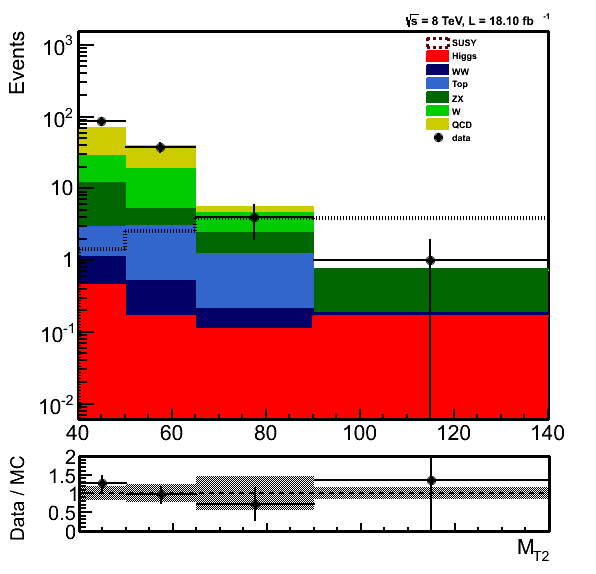
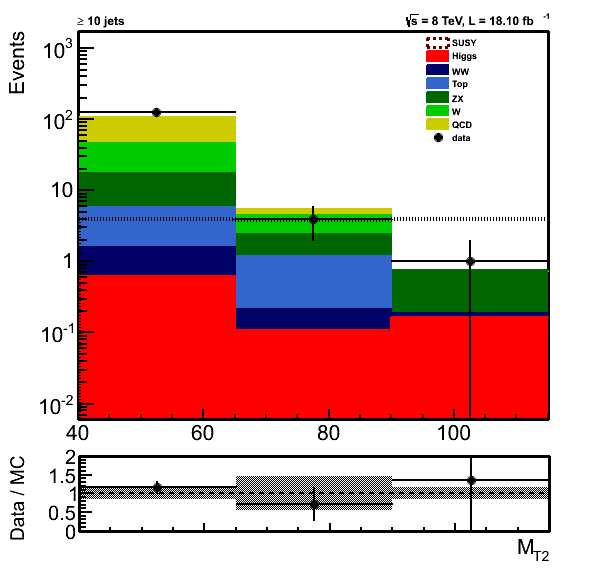
Rebinning of SumMt and MT2

diff --git a/notes/SUS-14-022/trunk/SelectionTauTau.tex b/notes/SUS-14-022/trunk/SelectionTauTau.tex
@@ -40,9 +40,11 @@ to be able to combine the statistics at the end.
 Two bins are defined as:
 \begin{itemize}
 \item {\bf\binone}: \mttwo $>$ 90 \GeV;
-\item {\bf\bintwo}: \mttwo $<$ 90 \GeV and \SumMT $>$ 250 \GeV; b-tagged jets are vetoed.{\FIXME bvetdo}
+\item {\bf\bintwo}: \mttwo $<$ 90 \GeV and \SumMT $>$ 250 \GeV; b-tagged jets are vetoed.
 \end{itemize}
 Vetoing the b-tagged jets in the second bin is useful against the backgrounds containting a top quark, especially \ttbar events. 
+To tag the b-jets, the medium working point of combined secondary vertex algorithm is used \cite{Chatrchyan:2012jua}. The b-jets have
+\PT $>$ 20 \GeV and $|\eta| < $ 2.4.
 
 The event yields can be found in table~\ref{tbl:cutflowtable}. The yields for three SUSY signal points, 
 corresponding to a low mass difference $(m_{\chione}=180\GeV,~m_{\PSGczDo}=60\GeV)$, 
@@ -51,9 +53,9 @@ a moderate mass difference $(m_{\chione}=240\GeV,~m_{\PSGczDo}=40\GeV)$ and a hi
 \begin{table}[!Hhtb]
 \begin{center}
 \begin{small}
-\begin{tabular}{lccccccccccc}
+\begin{tabular}{lcccccccccc}
 \hline\hline
-  &SUSY(180,60)&(240,40)&(380,1)&Higgs&QCD&WW&W&DY&Top&Total Bkg&Data\\
+  &SUSY(180,60)&(240,40)&(380,1)&Higgs&QCD&WW&W&DY&Top&Total Bkg\\%&Data\\
 \hline\hline
 %\multirow{5}{*}{Pre-Selection}&2 $\tau_h$ Selection&41.97&30.96&11.28&87.67&22081.57&13.71&595.80&2133.23&115.33&25027.32$\pm$6971.15&19615\\
 %&$e$ and $\mu$ Veto&38.68&27.89&9.87&81.53&19272.05&11.21&543.42&1961.29&95.85&21965.34$\pm$6387.87&18526\\
@@ -62,14 +64,14 @@ a moderate mass difference $(m_{\chione}=240\GeV,~m_{\PSGczDo}=40\GeV)$ and a hi
 %&$M_{T2} > $ 40&9.50&11.66&5.60&0.89&135.29&1.11&31.93&13.17&5.26&187.65$\pm$135.47&131\\
 %\hline
 %\binone&$M_{T2} > $ 90&0.59&3.89&3.81&0.17&$<$135.29&0.02&$<$1.28&0.56&$<$0.47&0.75$\pm$0.08&1\\
-\binone &0.59&3.89&3.81&0.17&$<$135.29&0.02&$<$1.28&0.56&$<$0.47&0.75$\pm$0.08&1\\
+\binone &0.59&3.89&3.81&0.17& 0.0 &0.02&0.0&0.56&0.0 &0.75$\pm$0.08\\%&1\\
 \hline
 %\multirow{3}{*}{\bintwo}&b-jet veto&7.92 &9.33 &4.67 &0.75&135.20&0.96&29.13&11.15&0.78&177.98$\pm$135.36&115\\
 %&$M_{T2} < $ 90&7.42 &6.17 &1.51 &0.61&135.20&0.94&29.13&10.65&0.78&177.32$\pm$135.36&114\\
-\bintwo &2.17&3.36  &1.08&0.07&$<$135.20&0.15&0.43&0.81&0.53&1.99$\pm$0.87&2\\
+\bintwo &2.17&3.36  &1.08&0.07& 0.0 &0.15&0.43&0.81&0.53&1.99$\pm$0.87\\%&2\\
 \hline\hline
 \end{tabular}
-\caption{{\bf FIXME 135 remove data} MC driven yields for $\tauTau$ channel. The quoted uncertainties are only statistical. When the remaining events from MC are zero, the weight of the events is reported as the upper bound.}
+\caption{ MC driven yields for $\tauTau$ channel. The quoted uncertainties are only statistical. When the remaining events from MC are zero, the weight of the events is reported as the upper bound.}
 \label{tbl:cutflowtable}
 \end{small}
 \end{center}
@@ -86,6 +88,6 @@ find the distribution of QCD in opposite-sign region.
 \centering
 \includegraphics[angle=0,scale=0.35]{TauTauFigs/MT2_SSQCD_dataunblinding.png}
 \includegraphics[angle=0,scale=0.35]{TauTauFigs/SumMT_SSQCD_dataunblinding.png} \\
-\caption{{\bf FIXME variable bin size, discrepancy 1st bin right}The distributions of \mttwo (left) and \SumMT (right) after pre-selection. The b-jet veto cut is also applied on the right plot.}
+\caption{The distributions of \mttwo (left) and \SumMT (right) after pre-selection. The b-jet veto cut is also applied on the right plot.}
 \label{fig:comparison}
 \end{figure}

diff --git a/notes/SUS-14-022/trunk/SelectionLepTau.tex b/notes/SUS-14-022/trunk/SelectionLepTau.tex
@@ -1,7 +1,7 @@
 %\section{Selection Cuts for eleTau Channel}
 \section{\texorpdfstring{Selection cuts for \leptonTau channel}{Selection cuts for lepton-tau channel}}
 \label{sect:eleTauCuts}
-{\bf FIXME lepton isolation trigger, btag, mttwo $<$ 90, table, figures}
+{\bf FIXME lepton isolation trigger, table, figures}
 In the \leptonTau final states, namely e\Tau and $\mu\Tau$, 
 events are selected when one electron(muon) with \PT $>$ 25 (20) \GeV and $|\eta|$ $<$ 2.1 and at least 
 one oppositely charged \Tau with \PT $>$ 20 \GeV and $|\eta|$ $<$ 2.3 exist. %The $I_{\Tau}$ of the hadronic tau must be less than 0.8 \GeV.
@@ -38,15 +38,15 @@ the final exclusion. The bins for $e\Tau$ and $\mu\Tau$ channels are defined by 
 \begin{table}[!Hhtb]
 \begin{center}
 %\begin{tiny}
-\begin{tabular}{lccccccccc}
+\begin{tabular}{lcccccccc}
 \hline
 \hline
-  & SUSY(380,1) & QCD & W & ZX & Top & WW & Higgs & MC & Data \\
+  & SUSY(380,1) & QCD & W & ZX & Top & WW & Higgs & MC \\%& Data \\
 \hline
 \hline
-e\Tau & 2.14  & $<$?? & 1.29 & 0.38 & 0.02 & 0.05 & 0.06 & 1.79$\pm$0.63 & 3 \\
+e\Tau       & 2.14 & 0.0 & 1.29 & 0.38 & 0.02 & 0.05 & 0.06 & 1.79$\pm$0.63 \\%& 3 \\
 \hline
-$\mu\hadtau$& 2.09 & $<$16.78 & 0.79 & 0.28 & $<$0.61 & 0.34 & 0.05 & 1.46$\pm$.49 & 5 \\
+$\mu\hadtau$& 2.09 & 0.0 & 0.79 & 0.28 & 0.0  & 0.34 & 0.05 & 1.46$\pm$.49 \\%& 5 \\
 %QCD 70.87 +- 34.49
 %Top 1.15 +- 0.84
 \hline
@@ -77,6 +77,6 @@ distribution after applying the preselection and \mttwo cuts, respectively.
 \caption{\tauMT distribution for events with $\mttwo>$90\GeV in (left) $e\hadtau$ and (right) $\mu\hadtau$ channels.}
 \label{fig:taumtleptontau}
 \end{figure}
-%Opposite to the $\Tau\Tau$ channel, the events with $\mttwo<90 \GeV$ are not useful in $\ell\Tau$ channels because of the contamination of
-%the Wjets events. It was investigated if increasing the \pt of the objects can increase the sensitivity in this bin, but no improvement was seen.
+Opposite to the $\Tau\Tau$ channel, the events with $\mttwo<90 \GeV$ are not useful in $\ell\Tau$ channels because of the contamination of
+the Wjets events. It was investigated if increasing the \pt of the objects can increase the sensitivity in this bin, but no improvement was seen.
 

diff --git a/notes/AN-14-275/trunk/Statistics.tex b/notes/AN-14-275/trunk/Statistics.tex
@@ -26,10 +26,10 @@ As a summary of results, the data and background yields and systematic uncertain
 		& \tauTau\binone & \tauTau\bintwo & \eTau\binone & \muTau\binone \\
 \hline
 MC Driven &  0.75 $\pm$ 0.08 $\pm$ 0.19 & 1.99 $\pm$ 0.87 $\pm$ 0.49  & 0.23 $\pm$ 0.14 $\pm$ 0.05 & 0.45 $\pm$ 0.16  $\pm$ 0.11\\
-Fake      &     0.93 $\pm$ 0.31         &           -                 &     2.32 $\pm$ 0.56 $\pm$  0.95 & 1.03 $\pm$ 0.44 $\pm$ 0.44\\
-QCD       &     0.15 $\pm$ 0.26         &         0.82 $\pm$ 0.65     &           -              &            -       \\
+Fake      &     0.93 $\pm$ 0.31         &           -                 & 2.32 $\pm$ 0.56 $\pm$ 0.95 & 1.03 $\pm$ 0.44 $\pm$ 0.44\\
+QCD       &     0.15 $\pm$ 0.26         &         0.82 $\pm$ 0.65     &             -              &            -       \\
 \hline
-SM Total  & 1.83 $\pm$ 0.08 $\pm$ 0.45 & 2.81  $\pm$ 0.87 $\pm$0.81  & 2.55 $\pm$ 0.58 $\pm$ 0.95 & 1.48 $\pm$ 0.47  $\pm$ 0.45\\
+SM Total  & 1.83 $\pm$ 0.08 $\pm$ 0.45  & 2.81  $\pm$ 0.87 $\pm$0.81  & 2.55 $\pm$ 0.58 $\pm$ 0.95 & 1.48 $\pm$ 0.47  $\pm$ 0.45\\
 \hline
 \hline
 Observed   & 1     & 2     & 3   & 5 \\  

diff --git a/notes/SUS-14-022/trunk/Statistics.tex b/notes/SUS-14-022/trunk/Statistics.tex
@@ -18,10 +18,10 @@ As a summary of results, the data and background yields and systematic uncertain
 		& \tauTau\binone & \tauTau\bintwo & \eTau\binone & \muTau\binone \\
 \hline
 MC Driven& 0.75 $\pm$ 0.08 $\pm$ 0.19 & 1.99 $\pm$ 0.87 $\pm$ 0.49  & 0.2 $\pm$ 0.1 $\pm$ 0.05 & 0.45 $\pm$ 0.16  $\pm$ 0.11\\
-Fake    &     0.93 $\pm$ 0.31         &           -                 &     2.35 $\pm$ 1.15       &      0.61 $\pm$  0.42\\
+Fake     &     0.93 $\pm$ 0.31         &           -                 &     2.32 $\pm$ 0.56 $\pm$  0.95 & 1.03 $\pm$ 0.44 $\pm$ 0.44\\
 QCD     &     0.15 $\pm$ 0.26         &         0.82 $\pm$ 0.65     &           -              &            -       \\
 \hline
-SM Total  & 1.83 $\pm$ 0.08 $\pm$ 0.45 & 2.81  $\pm$ 0.87 $\pm$0.81  & 2.55 $\pm$ 0.1 $\pm$ 1.15 & 1.06 $\pm$ 0.16  $\pm$ 0.43\\
+SM Total  & 1.83 $\pm$ 0.08 $\pm$ 0.45 & 2.81  $\pm$ 0.87 $\pm$0.81  & 2.55 $\pm$ 0.58 $\pm$ 0.95 & 1.48 $\pm$ 0.47  $\pm$ 0.45\\
 \hline
 \hline
 Observed   & 1     & 2     & 3   & 5 \\  

diff --git a/notes/SUS-14-022/trunk/SUS-14-022.tex b/notes/SUS-14-022/trunk/SUS-14-022.tex
@@ -21,7 +21,7 @@
 %%%%%%%%%%%%%%%  Title page %%%%%%%%%%%%%%%%%%%%%%%%
 \cmsNoteHeader{SUS-14-022} % This is over-written in the CMS environment: useful as preprint no. for export versions
 % >> Title: please make sure that the non-TeX equivalent is in PDFTitle below
-\title{Search for electroweak production of charginos in di-$\tau$ final states in pp collisions at sqrt(s)= 8 TeV with the CMS detector}
+\title{Search for electroweak production of charginos in di-$\tau$ final states in pp collisions at $\sqrt{s}= 8$ \TeV with the CMS detector}
 
 % >> Authors
 %Author is always "The CMS Collaboration" for PAS and papers, so author, etc, below will be ignored in those cases
